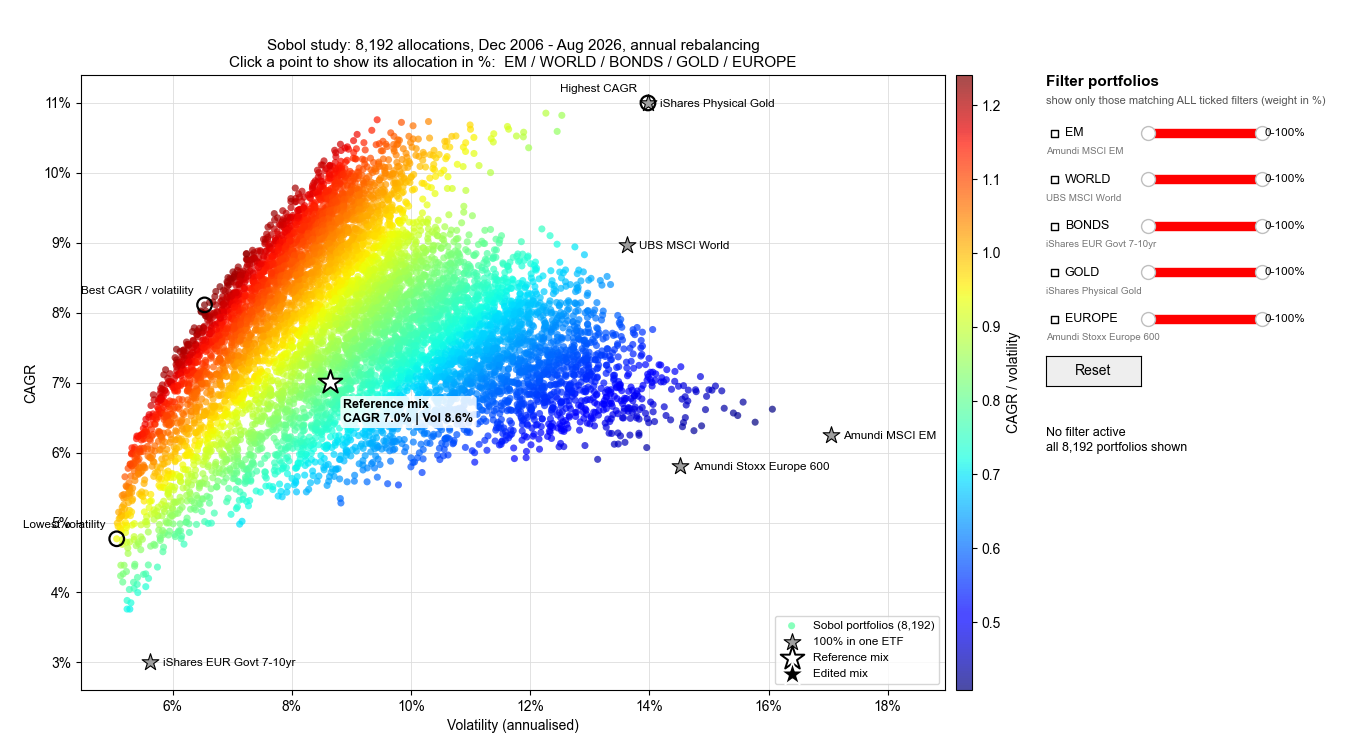
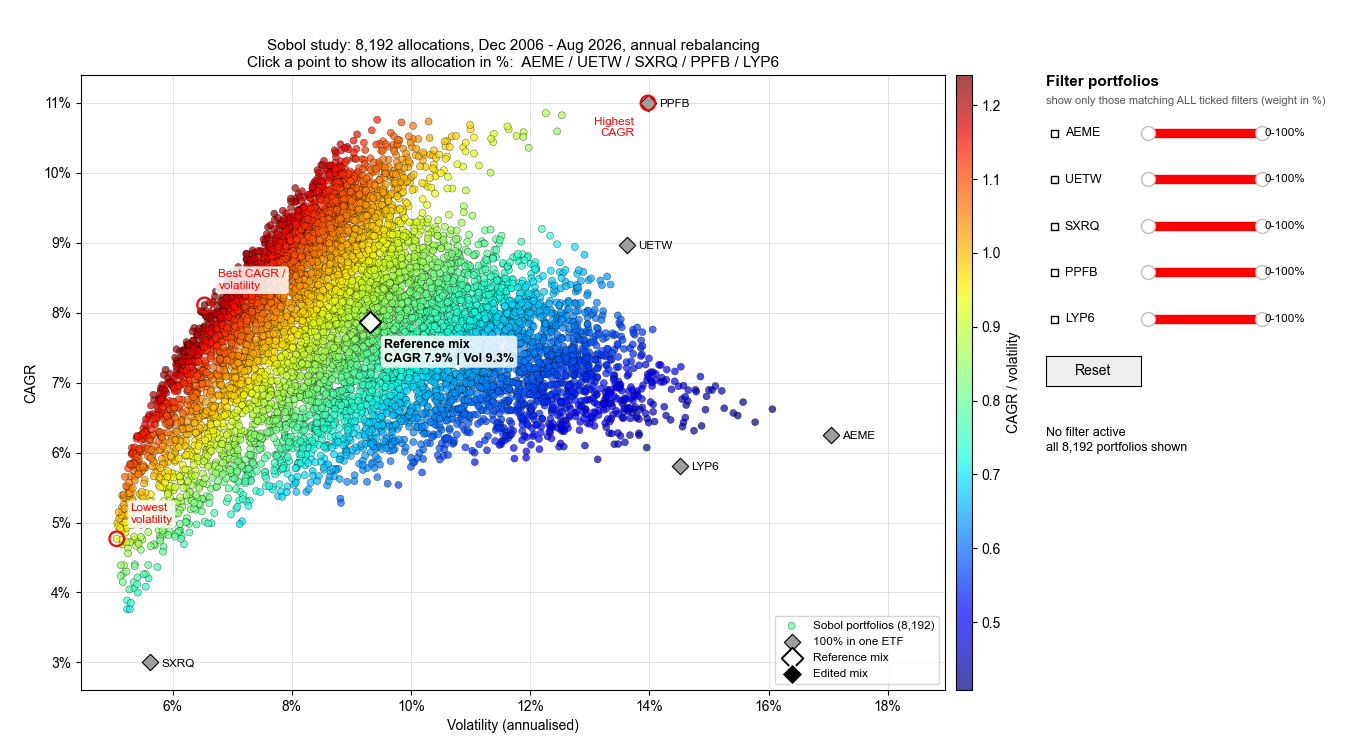
Improve the plotting functionalities of the Sobol study
- Sobol dots have a thin black outline
- single-ETF, reference-mix and edited-mix markers are diamonds
- single ETFs and the filter panel are labelled with the ETF ticker
  instead of the long fund name (built-in tickers AEME, UETW, VUAA,
  SXRQ, PPFB, LYP6; added ETFs use their ticker from the workbook)
- notable portfolios (highest CAGR, lowest volatility, best ratio) get
  red circles and two-line red labels that stay inside the axes
- new README screenshot

diff --git a/src/portfolio_backtest/sobol/explorer.py b/src/portfolio_backtest/sobol/explorer.py
@@ -1,12 +1,13 @@
 """Interactive volatility vs CAGR chart of a Sobol study.
 
 - One dot per Sobol portfolio, coloured by CAGR / volatility (jet: blue = low, red = high).
-- Grey stars: 100 % in one ETF. White star: the reference mix (--mix). Circles: the notable portfolios.
+- Grey diamonds: 100 % in one ETF, labelled with its ticker. White diamond: the reference mix (--mix).
+  Circles: the notable portfolios.
 - Click a dot to show or hide its allocation.
 - Right-hand strip: one filter per ETF (tick box + min-max slider); only portfolios matching ALL
   ticked filters stay visible. Reset switches every filter off.
 - "Custom mix" Qt side panel (Qt backend only): type other weights, "Plot" shows that mix as a
-  black star, "Back to reference" removes it.
+  black diamond, "Back to reference" removes it.
 """
 
 from __future__ import annotations
@@ -39,7 +40,7 @@ class SobolExplorer:
         r = study.result
         self.n = study.n_samples
         self.vol, self.cagr, self.ratio = r.volatility, r.cagr, study.ratio
-        self.visible = np.ones(len(study.allocs), bool)  # stars are always visible
+        self.visible = np.ones(len(study.allocs), bool)  # the diamonds are always visible
         self.labels: dict[int, object] = {}               # portfolio index -> click label
 
         use_style()
@@ -67,41 +68,53 @@ class SobolExplorer:
         ax, n, s = self.ax, self.n, self.study
         vol, cagr, ratio = self.vol, self.cagr, self.ratio
 
-        self.cloud = ax.scatter(vol[:n], cagr[:n], c=ratio[:n], cmap="jet", s=26, alpha=0.7, linewidths=0,
-                                zorder=2, label=f"Sobol portfolios ({n:,})", rasterized=True)
+        self.cloud = ax.scatter(vol[:n], cagr[:n], c=ratio[:n], cmap="jet", s=26, alpha=0.7,
+                                edgecolors="black", linewidths=0.3, zorder=2, label=f"Sobol portfolios ({n:,})", rasterized=True)
         self.cloud.set_clim(ratio[:n].min(), ratio[:n].max())  # fixed scale, so filtering keeps the colours
         self.fig.colorbar(self.cloud, cax=self.fig.add_axes([0.708, 0.08, 0.012, 0.82]), label="CAGR / volatility")
 
-        ax.scatter(vol[s.singles], cagr[s.singles], marker="*", s=160, color="#9e9e9e", edgecolors="black",
+        ax.scatter(vol[s.singles], cagr[s.singles], marker="D", s=70, color="#9e9e9e", edgecolors="black",
                    linewidths=0.8, zorder=4, label="100% in one ETF")
         for i in s.singles:
-            ax.annotate(ETFS[s.etfs[i - n]].name, (vol[i], cagr[i]), xytext=(9, -3),
+            ax.annotate(ETFS[s.etfs[i - n]].label, (vol[i], cagr[i]), xytext=(8, -3),
                         textcoords="offset points", fontsize=8.5)
 
         x, y = self._backtest_mix(list(self.my_mix.values()))
-        ax.scatter(x, y, marker="*", s=320, color="white", edgecolor="black", lw=1.4, zorder=6,
+        ax.scatter(x, y, marker="D", s=120, color="white", edgecolor="black", lw=1.4, zorder=6,
                    label="Reference mix")
         ax.annotate(f"Reference mix\nCAGR {y:.1%} | Vol {x:.1%}", (x, y), xytext=(10, -12),
                     textcoords="offset points", va="top", fontsize=9, fontweight="bold", zorder=7, bbox=LABEL_BOX)
 
-        self.my_star = ax.scatter([], [], marker="*", s=320, color="black", edgecolor="white", lw=1.2, zorder=6,
+        self.my_star = ax.scatter([], [], marker="D", s=120, color="black", edgecolor="white", lw=1.2, zorder=6,
                                   label="Edited mix")
         self.my_label = ax.annotate("", (0, 0), xytext=(10, 14), textcoords="offset points", va="bottom",
                                     fontsize=9, fontweight="bold", zorder=7, bbox=LABEL_BOX)
 
-        for name, i in s.picks().items():
-            ax.scatter(vol[i], cagr[i], marker="o", s=110, facecolor="none", edgecolor="black", lw=1.6, zorder=5)
-            ax.annotate(name, (vol[i], cagr[i]), xytext=(-8, 8), textcoords="offset points", fontsize=8.5, ha="right")
+        picks = s.picks()
+        for i in picks.values():  # red circles around the notable portfolios
+            ax.scatter(vol[i], cagr[i], marker="o", s=110, facecolor="none", edgecolor="red", lw=1.6, zorder=5)
 
         lo, hi = ax.get_xlim()
-        ax.set_xlim(lo, hi + 0.10 * (hi - lo))  # room on the right for the star labels
+        ax.set_xlim(lo, hi + 0.10 * (hi - lo))  # room on the right for the diamond labels
+
+        # labels of the notable portfolios, on two lines, placed after the limits are final so they can be
+        # kept inside the axes: to the right of the circle near the left edge, below it near the top
+        two_lines = {"Highest CAGR": "Highest\nCAGR", "Lowest volatility": "Lowest\nvolatility",
+                     "Best CAGR / volatility": "Best CAGR /\nvolatility"}
+        for name, i in picks.items():
+            fx, fy = ax.transAxes.inverted().transform(ax.transData.transform((vol[i], cagr[i])))
+            dx, ha = (10, "left") if fx < 0.25 else (-10, "right")
+            dy, va = (-10, "top") if fy > 0.85 else (10, "bottom")
+            ax.annotate(two_lines.get(name, name), (vol[i], cagr[i]), xytext=(dx, dy), textcoords="offset points",
+                        ha=ha, va=va, multialignment=ha, fontsize=8.5, color="red", zorder=7, bbox=LABEL_BOX)
         ax.set_xlabel("Volatility (annualised)")
         ax.set_ylabel("CAGR")
         ax.xaxis.set_major_formatter(mtick.PercentFormatter(1.0, decimals=0))
         ax.yaxis.set_major_formatter(mtick.PercentFormatter(1.0, decimals=0))
         d = s.result.dates
         ax.set_title(f"Sobol study: {n:,} allocations, {d[0]:%b %Y} - {d[-1]:%b %Y}, {self.rebalance} rebalancing\n"
-                     "Click a point to show its allocation in %:  " + " / ".join(s.etfs), fontsize=11)
+                     "Click a point to show its allocation in %:  " + " / ".join(ETFS[c].label for c in s.etfs),
+                     fontsize=11)
         ax.legend(loc="lower right", fontsize=8.5)
         ax.grid(True, color="#dddddd", lw=0.6)
 
@@ -116,10 +129,9 @@ class SobolExplorer:
             y = top - k * row_h
             cax = fig.add_axes([0.770, y, 0.075, 0.045])
             cax.set_frame_on(False)
-            self.checks[c] = CheckButtons(cax, [c], [c in self.initial_filters],
+            self.checks[c] = CheckButtons(cax, [ETFS[c].label], [c in self.initial_filters],
                                           frame_props={"edgecolor": "black"}, check_props={"facecolor": "red"})
             self.checks[c].labels[0].set_fontsize(9)
-            fig.text(0.775, y - 0.006, ETFS[c].name[:30], fontsize=7, color="#777777")  # short: no overlap
             self.sliders[c] = RangeSlider(fig.add_axes([0.850, y + 0.012, 0.085, 0.022]), "", 0, 100,
                                           valinit=self.initial_filters.get(c, (0, 100)), valstep=1, color="red")
             self.sliders[c].valtext.set_fontsize(8.5)
@@ -139,7 +151,7 @@ class SobolExplorer:
             self.sliders[c].valtext.set_text(rng)
             if self.checks[c].get_status()[0]:
                 keep &= (allocs[:n, j] >= lo) & (allocs[:n, j] <= hi)
-                active.append(f"{c} {rng}")
+                active.append(f"{ETFS[c].label} {rng}")
         self.cloud.set_offsets(np.column_stack([self.vol[:n][keep], self.cagr[:n][keep]]))
         self.cloud.set_array(self.ratio[:n][keep])
         self.visible[:n] = keep
@@ -185,7 +197,7 @@ class SobolExplorer:
 
     # ----------------------------------------------------------- edited mix --
     def plot_mix(self, weights) -> None:
-        """Black star at the mix ``weights`` (% in my_mix order); hidden when it equals the reference mix."""
+        """Black diamond at the mix ``weights`` (% in my_mix order); hidden when it equals the reference mix."""
         edited = list(weights) != list(self.my_mix.values())
         if edited:
             x, y = self._backtest_mix(list(weights))

diff --git a/src/portfolio_backtest/sobol/cli.py b/src/portfolio_backtest/sobol/cli.py
@@ -1,6 +1,6 @@
 """Command line: run a Sobol study and open the interactive chart.
 
-    portfolio-sobol                                      EM, WORLD, BONDS, GOLD, EUROPE; your default mix as the white star
+    portfolio-sobol                                      EM, WORLD, BONDS, GOLD, EUROPE; your default mix as the white diamond
     portfolio-sobol --etfs WORLD BONDS GOLD --samples 4096
     portfolio-sobol --filter GOLD=25-100 --rebalance quarterly
 """
@@ -35,7 +35,7 @@ def build_parser() -> argparse.ArgumentParser:
     ap.add_argument("--etfs", nargs="+", default=list(DEFAULT_STUDY_ETFS), help="ETFs in the study")
     ap.add_argument("--samples", type=int, default=8192, help="number of Sobol portfolios (default 8192)")
     ap.add_argument("--seed", type=int, default=42, help="scrambling seed (default 42)")
-    ap.add_argument("--mix", nargs="+", metavar="CODE=PCT", help="reference mix shown as a white star "
+    ap.add_argument("--mix", nargs="+", metavar="CODE=PCT", help="reference mix shown as a white diamond "
                     "(default: " + " ".join(f"{c}={p:g}" for c, p in DEFAULT_ALLOC.items()) + ")")
     ap.add_argument("--filter", nargs="+", default=[], metavar="CODE=MIN-MAX", help="filters active at start")
     ap.add_argument("--invest", type=float, default=DEFAULT_INVEST)

diff --git a/src/portfolio_backtest/etfs.py b/src/portfolio_backtest/etfs.py
@@ -19,15 +19,21 @@ class ETF:
     code: str
     isin: str
     name: str
+    ticker: str = ""  # exchange ticker shown in charts; falls back to the code
+
+    @property
+    def label(self) -> str:
+        """Short name for chart labels: the ticker, or the code if no ticker is known."""
+        return self.ticker or self.code
 
 
 BUILTIN_ETFS: tuple[ETF, ...] = (
-    ETF("EM", "LU1437017350", "Amundi MSCI EM"),
-    ETF("WORLD", "IE00BD4TXV59", "UBS MSCI World"),
-    ETF("SP500", "IE00BFMXXD54", "Vanguard S&P 500"),
-    ETF("BONDS", "IE00B3VTN290", "iShares EUR Govt 7-10yr"),
-    ETF("GOLD", "IE00B4ND3602", "iShares Physical Gold"),
-    ETF("EUROPE", "LU0908500753", "Amundi Stoxx Europe 600"),
+    ETF("EM", "LU1437017350", "Amundi MSCI EM", "AEME"),
+    ETF("WORLD", "IE00BD4TXV59", "UBS MSCI World", "UETW"),
+    ETF("SP500", "IE00BFMXXD54", "Vanguard S&P 500", "VUAA"),
+    ETF("BONDS", "IE00B3VTN290", "iShares EUR Govt 7-10yr", "SXRQ"),
+    ETF("GOLD", "IE00B4ND3602", "iShares Physical Gold", "PPFB"),
+    ETF("EUROPE", "LU0908500753", "Amundi Stoxx Europe 600", "LYP6"),
 )
 
 # All known ETFs: the built-in ones, plus the ones registered from the data workbook.

diff --git a/src/portfolio_backtest/data.py b/src/portfolio_backtest/data.py
@@ -78,7 +78,9 @@ def _etf_for(isin: str, info: pd.DataFrame) -> ETF:
     row = info.loc[isin] if isin in info.index else pd.Series(dtype=object)
     code = str(row.get("Code") or "").strip().upper() or isin
     name = str(row.get("Fund") or "").strip() or isin
-    return ETF(code, isin, name)
+    tickers = [t.strip().upper() for t in str(row.get("Tickers") or "").split(",") if t.strip()]
+    ticker = code if code in tickers else (tickers[0] if tickers else "")  # the code if it is a ticker
+    return ETF(code, isin, name, ticker)
 
 
 @lru_cache(maxsize=4)

diff --git a/README.md b/README.md
@@ -50,11 +50,11 @@ The default mix is the basis allocation EM 13 / WORLD 25 / SP500 10 / BONDS 20 /
 ### Sobol study
 
 ```bash
-portfolio-sobol                                            # 8192 mixes of EM, WORLD, BONDS, GOLD, EUROPE; default mix as the white star
+portfolio-sobol                                            # 8192 mixes of EM, WORLD, BONDS, GOLD, EUROPE; default mix as the white diamond
 portfolio-sobol --etfs WORLD BONDS GOLD --samples 4096
 portfolio-sobol --etfs EUNL SP500I BONDS GOLD              # ETFs added with portfolio-data work too
 portfolio-sobol --filter GOLD=10-30 --rebalance quarterly
-portfolio-sobol --mix WORLD=50 BONDS=40 GOLD=10            # the white reference star
+portfolio-sobol --mix WORLD=50 BONDS=40 GOLD=10            # the white reference diamond
 ```
 
 ![Sobol study](docs/sobol.png)
